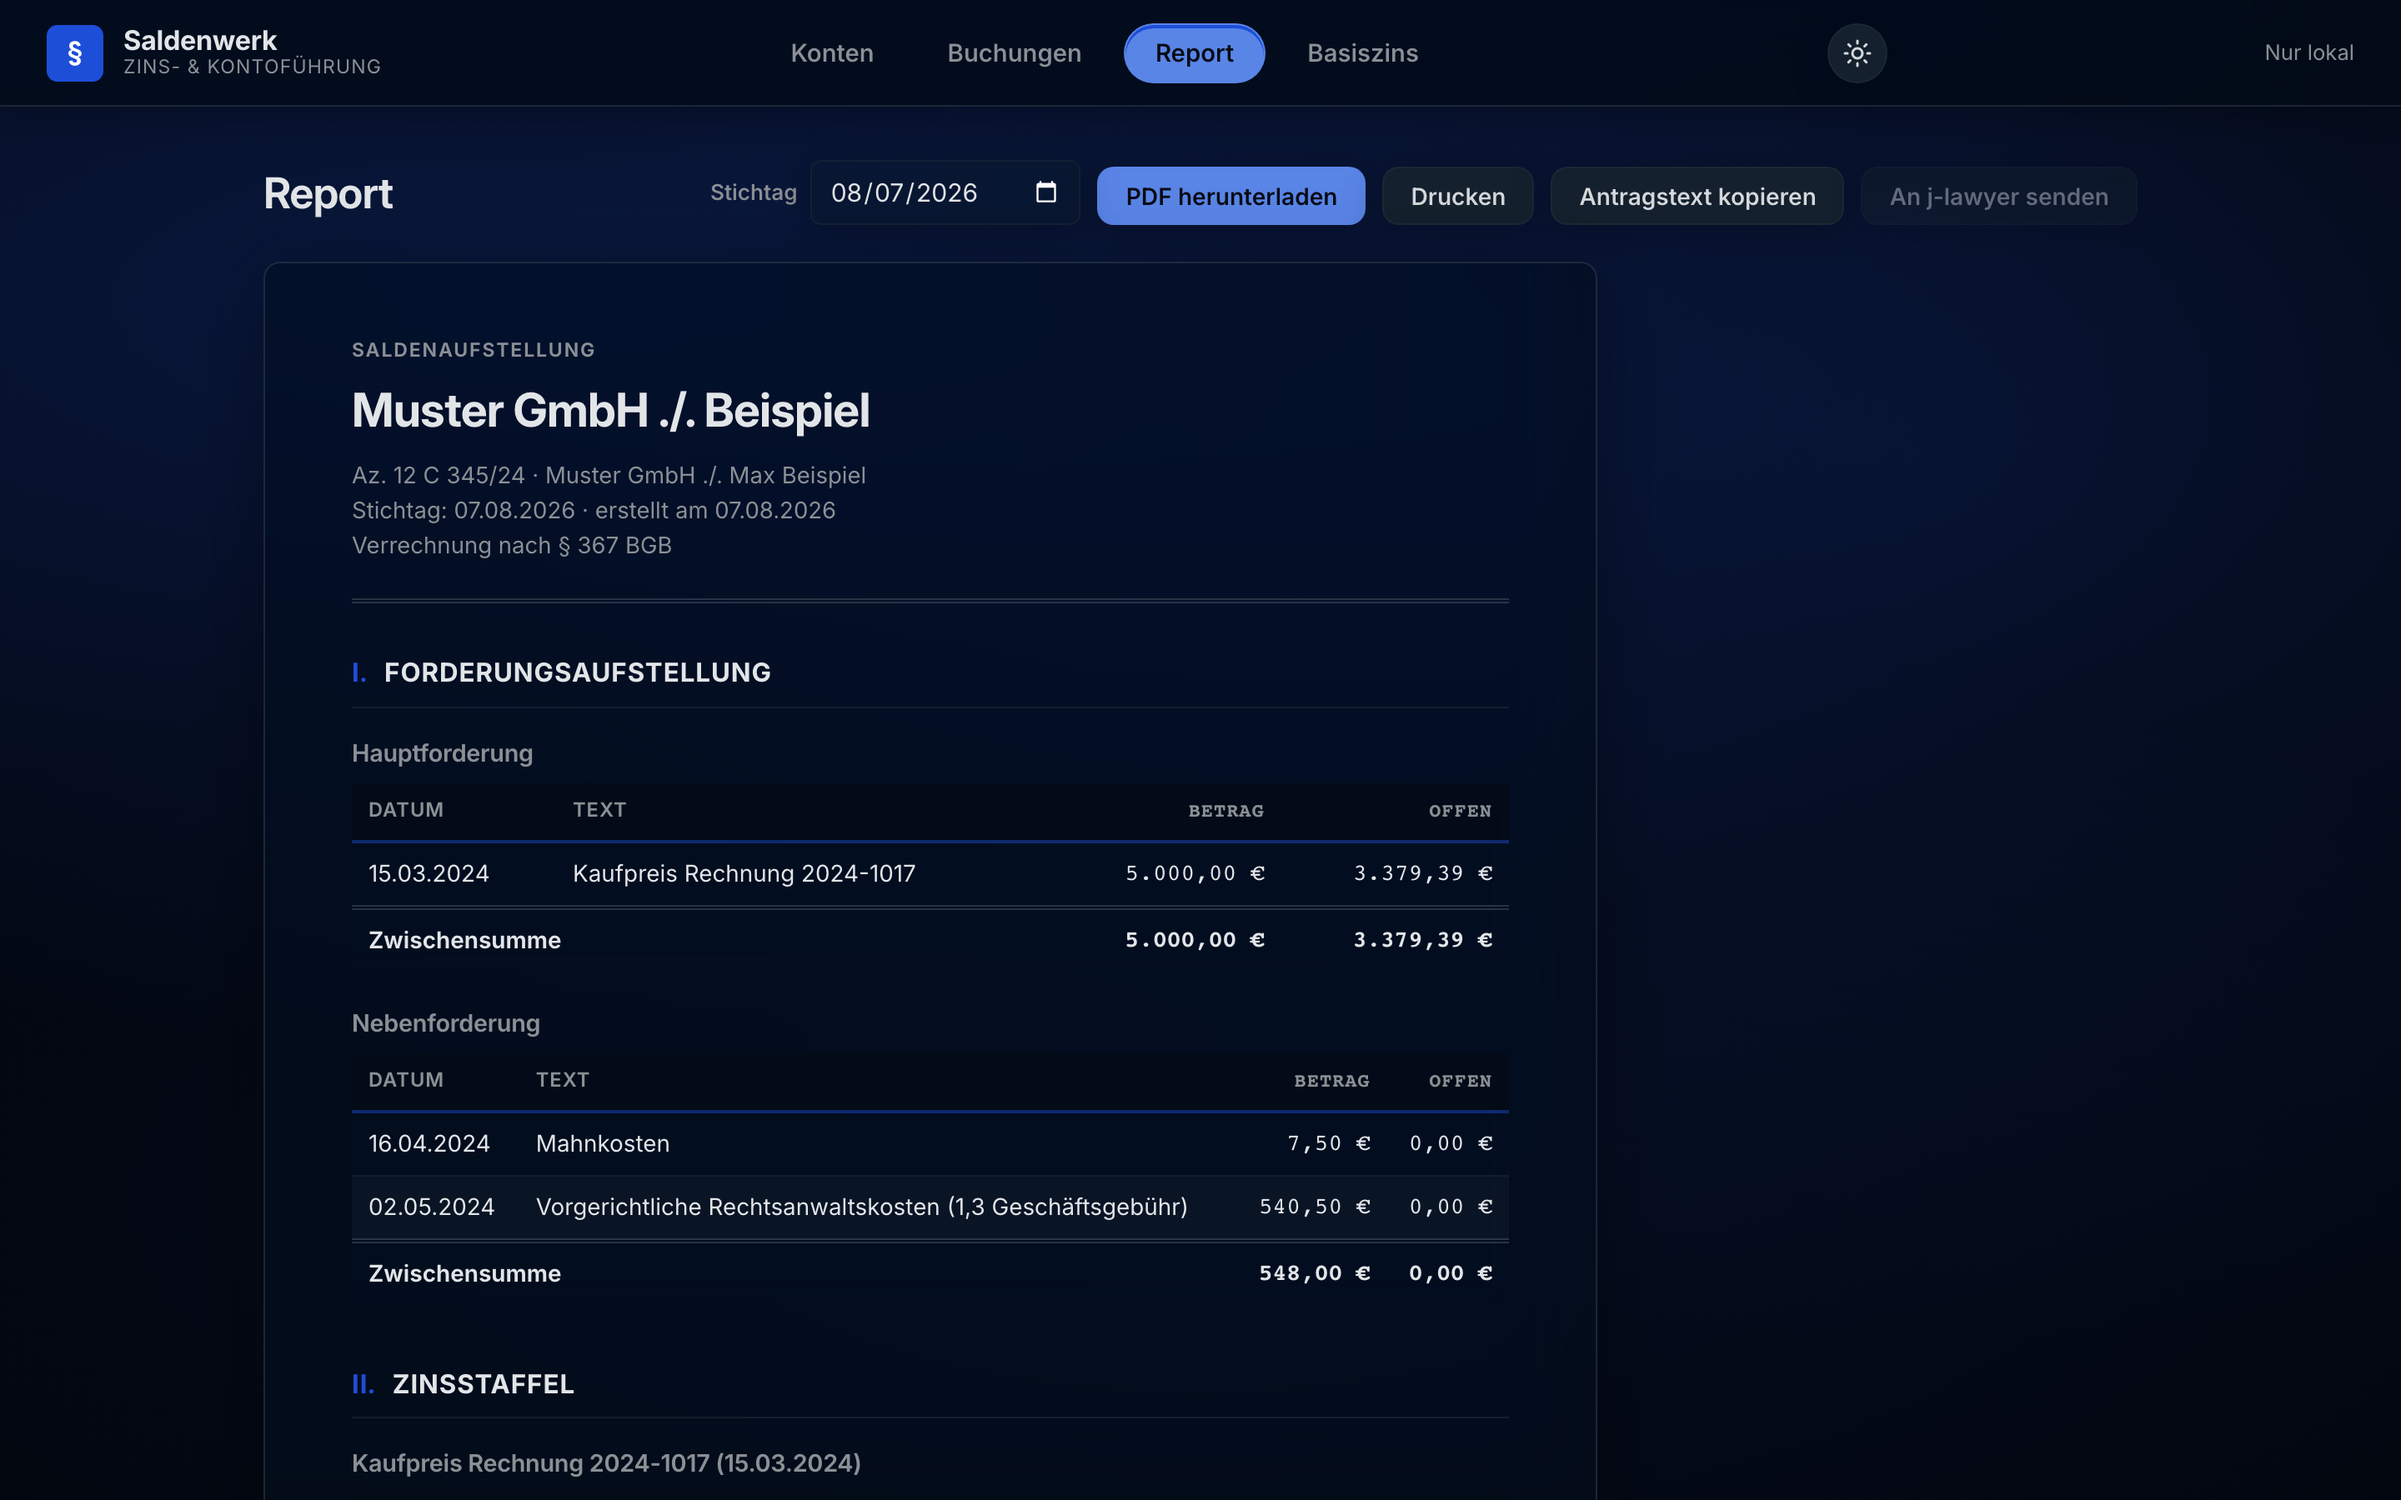
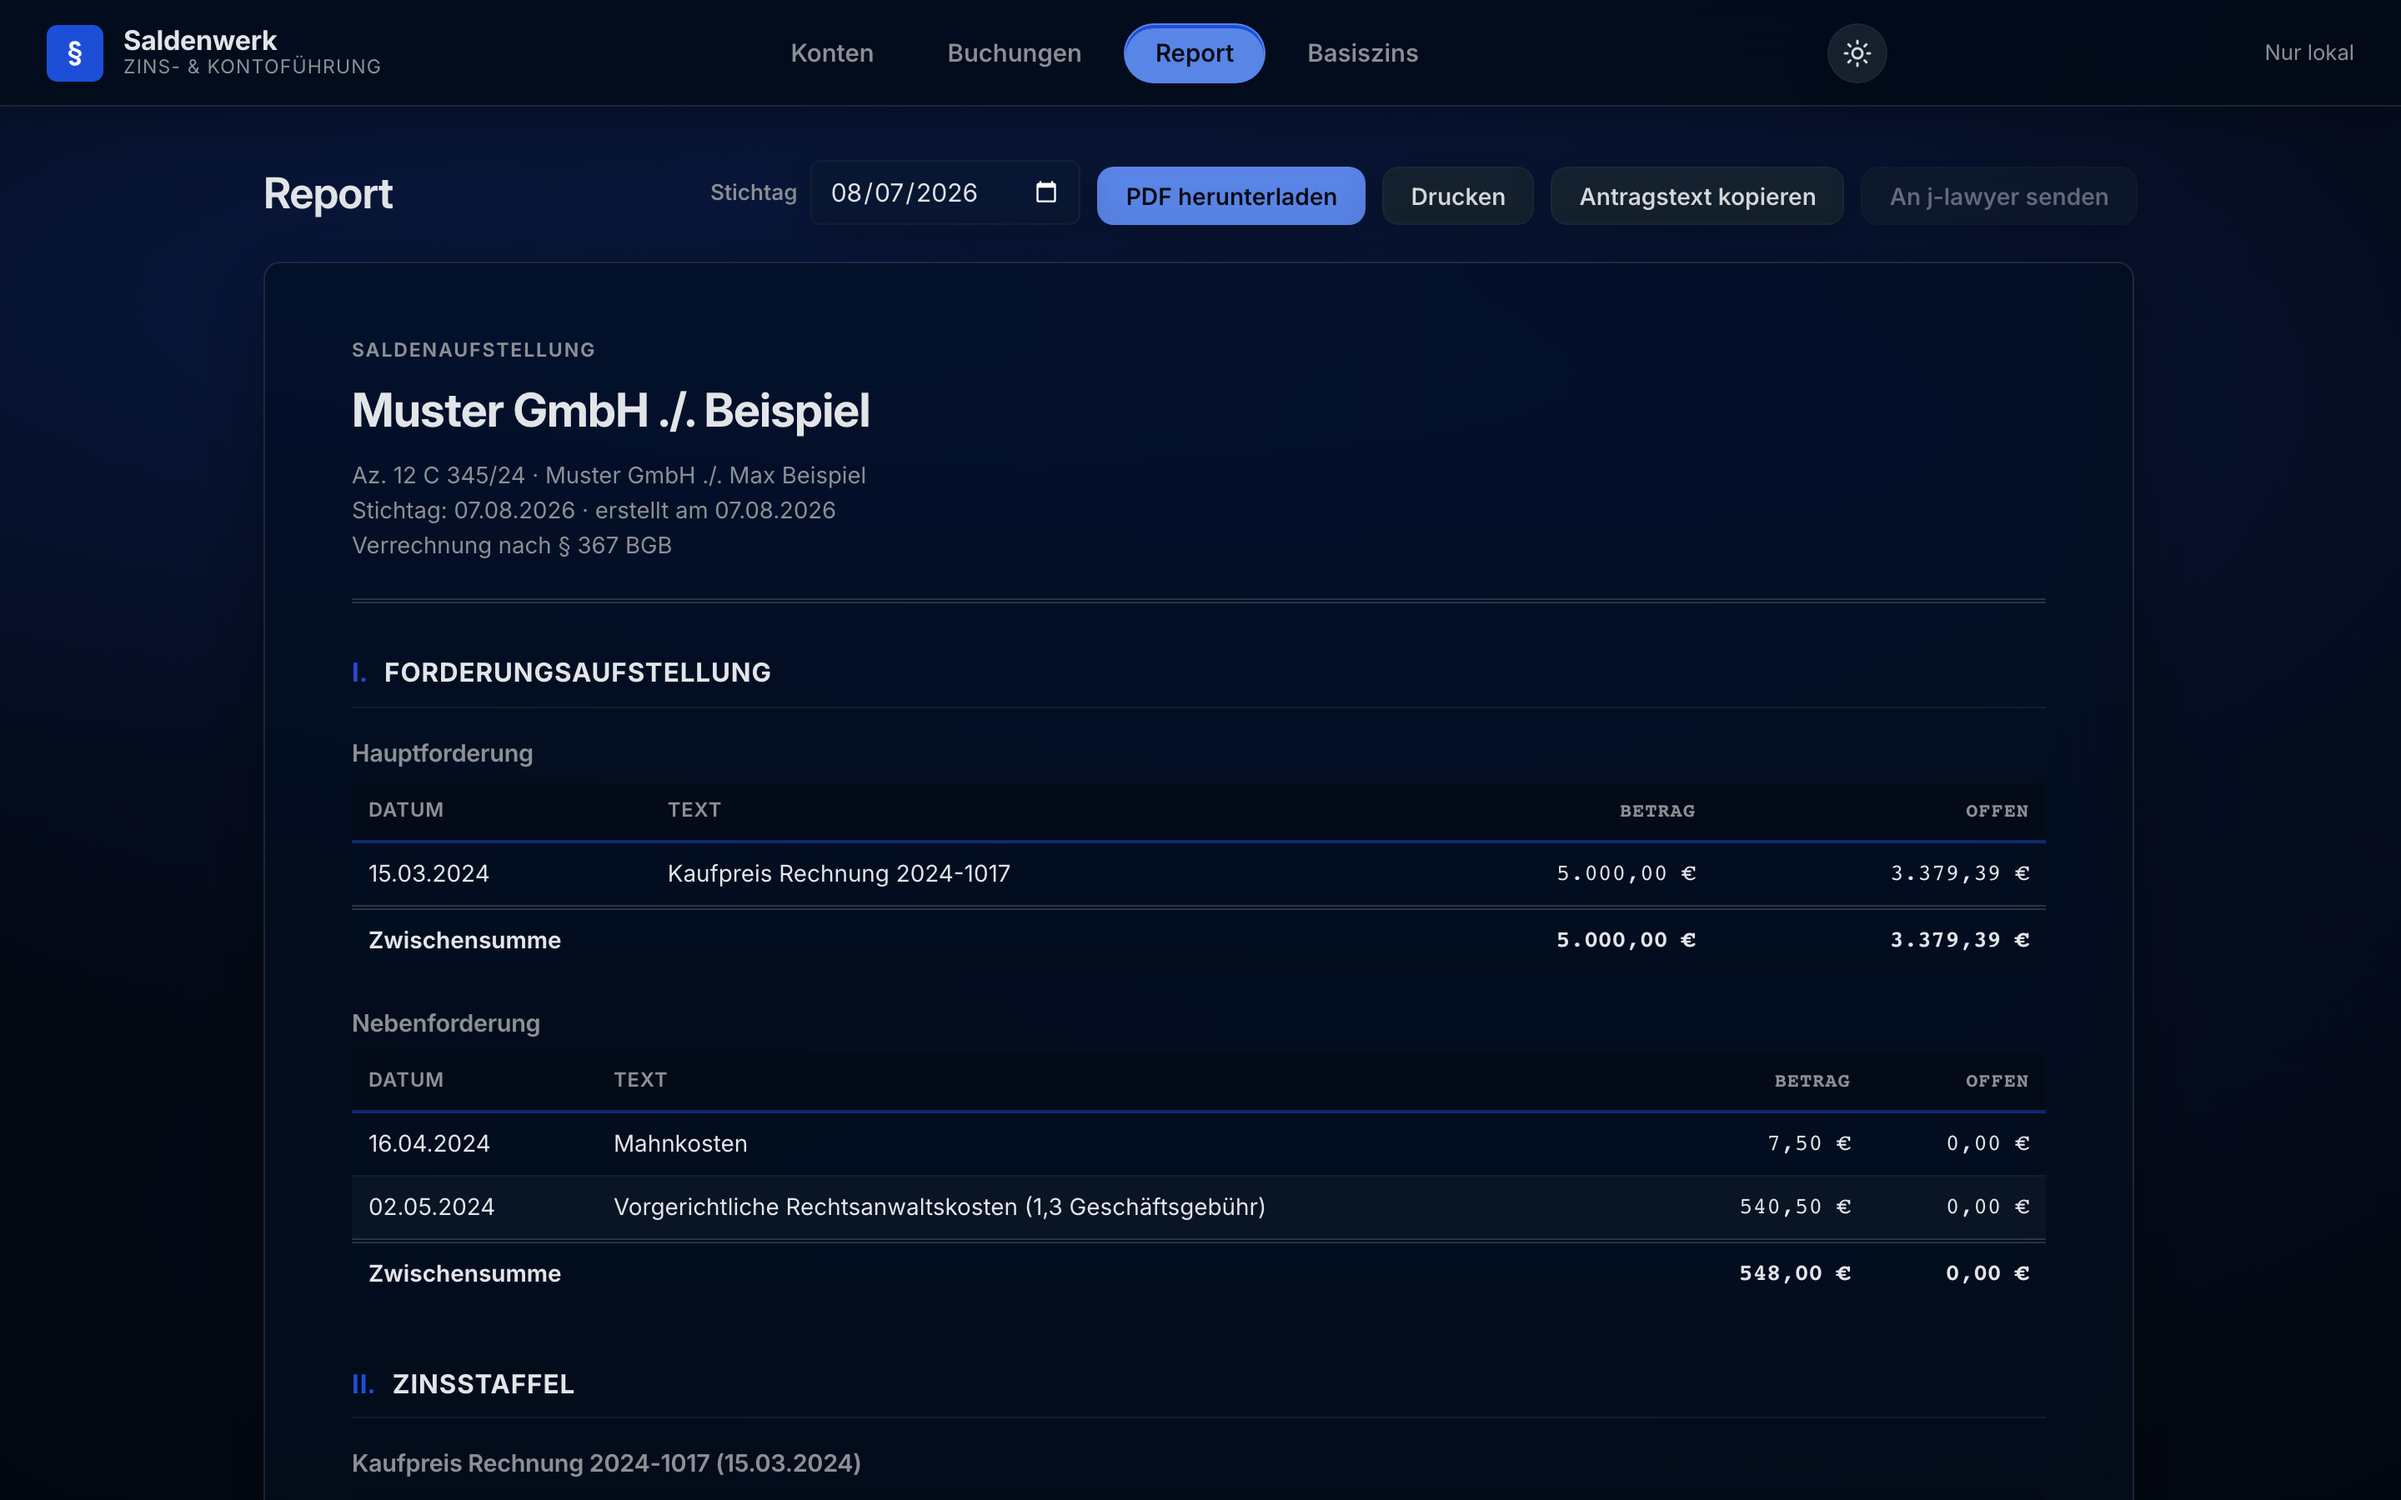
feat: Report im Browser als Querformat-Blatt (A4 quer, wie Druck/PDF)

diff --git a/styles.css b/styles.css
@@ -641,7 +641,8 @@ select:focus {
 
 .report-inhalt {
   margin-top: 18px;
-  max-width: 800px;
+  /* Querformat-Blatt wie Druck/PDF: A4 quer bei 96 dpi ≈ 1122px */
+  max-width: 1122px;
   background: var(--farbe-flaeche);
   border: 1px solid var(--farbe-rand);
   border-radius: var(--radius);
